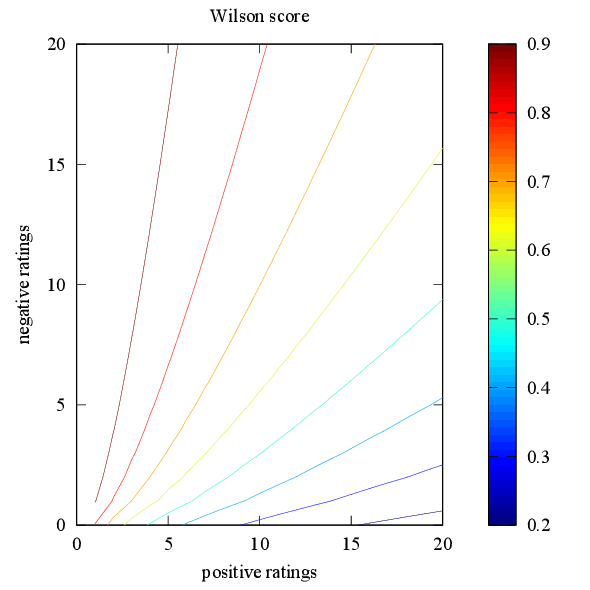
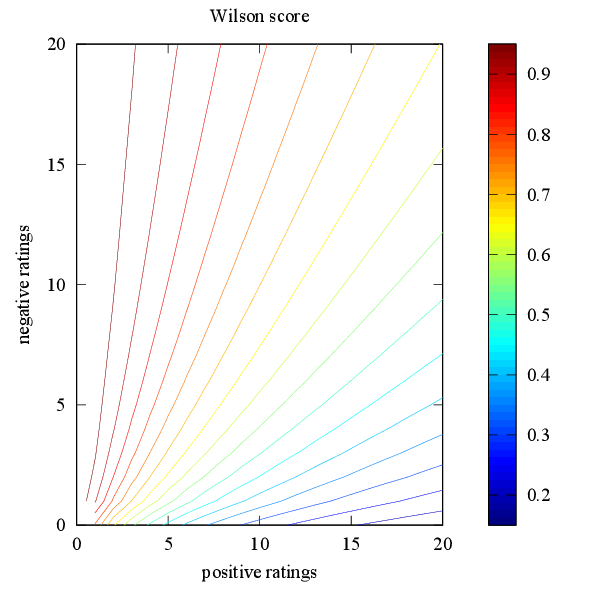
Section now uses both English and German
- renamed database attribute of Vokab::Item to 'db'

diff --git a/doc/wilson/score.m b/doc/wilson/score.m
@@ -4,6 +4,7 @@ function score
 
 n_max = 20;
 p = 0.95;
+chapters=16;
 
 % compute the number of ratings at each coordinate
 for j = 1:n_max+1
@@ -24,7 +25,7 @@ score = ( phat + z.^2./2./num ...
 
 % plot the graph
 make_plot
-contour( pos, neg, abs( score ), 0.2:0.1:0.9 )
+contour( pos, neg, abs( score ), 0.95:-0.05:0.95-0.05*chapters )
 
 xlim( [ 0 n_max ] )
 ylim( [ 0 n_max ] )
